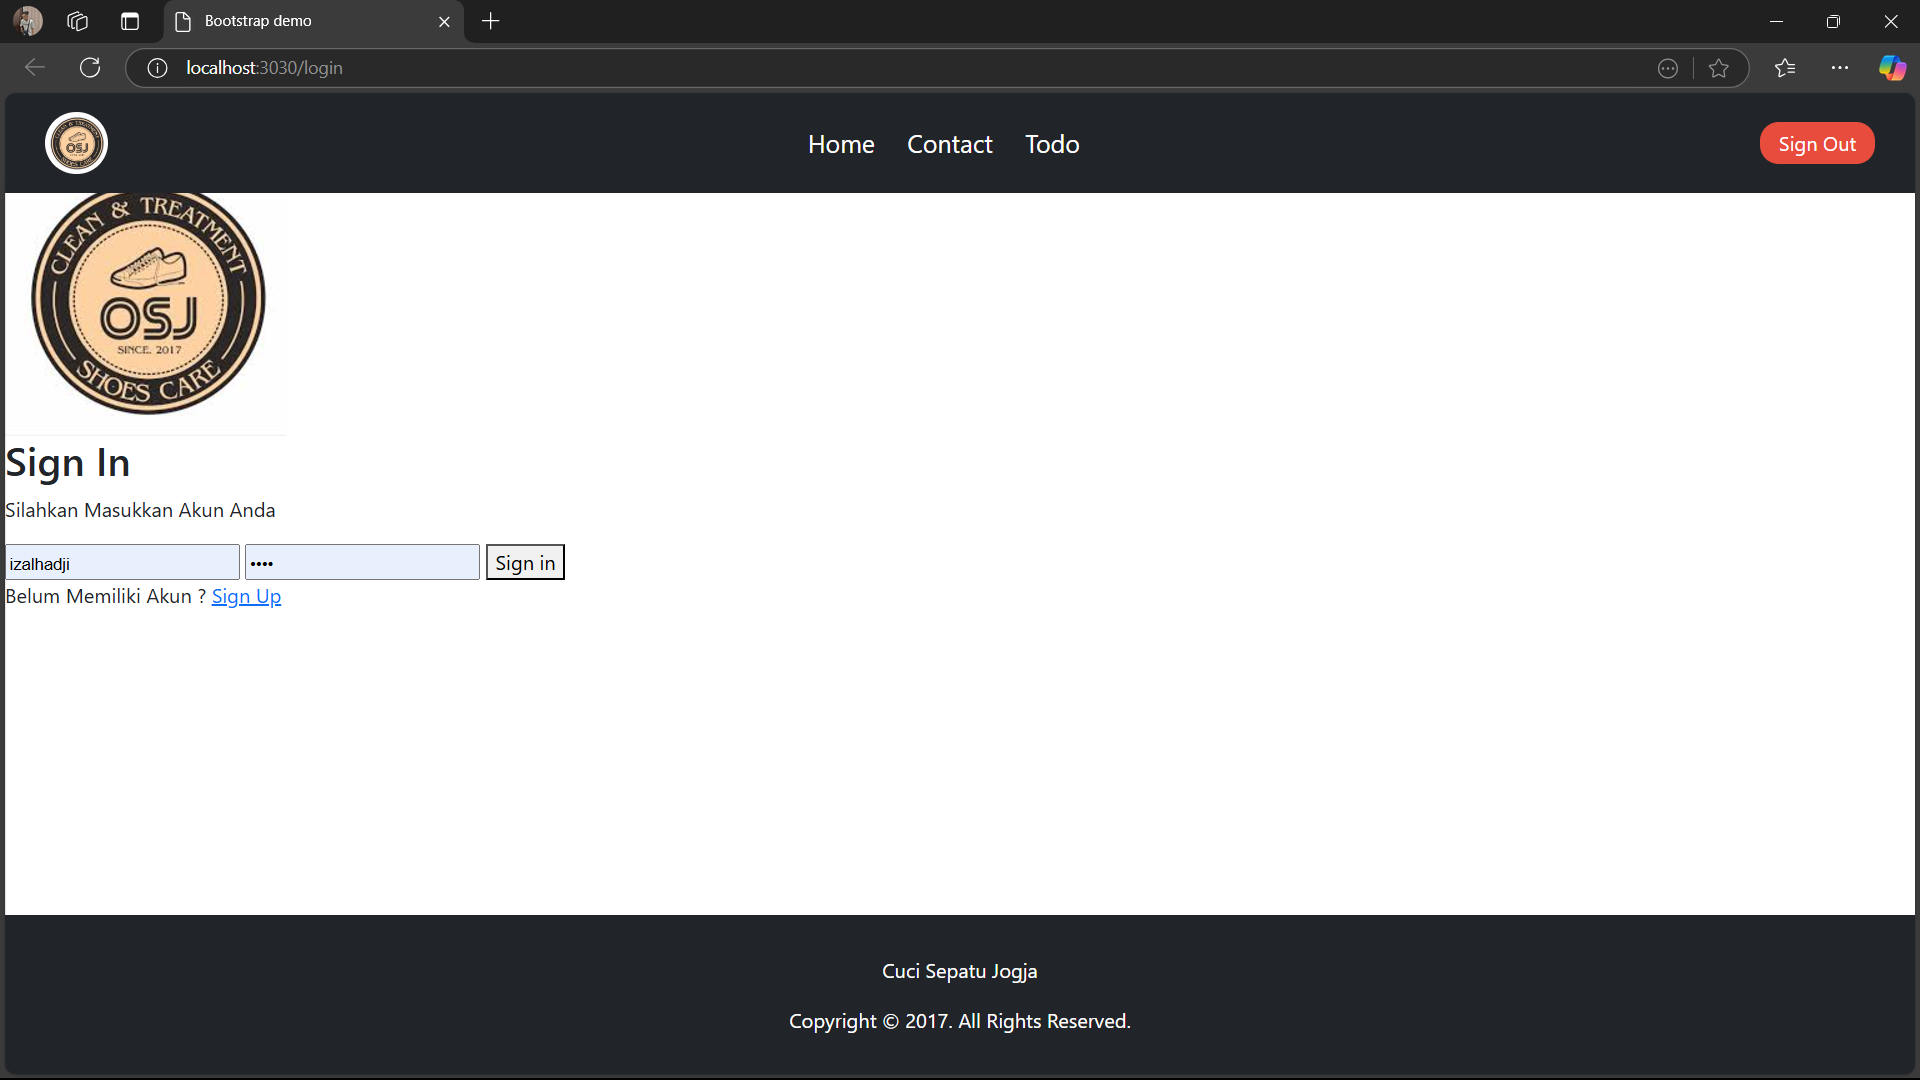
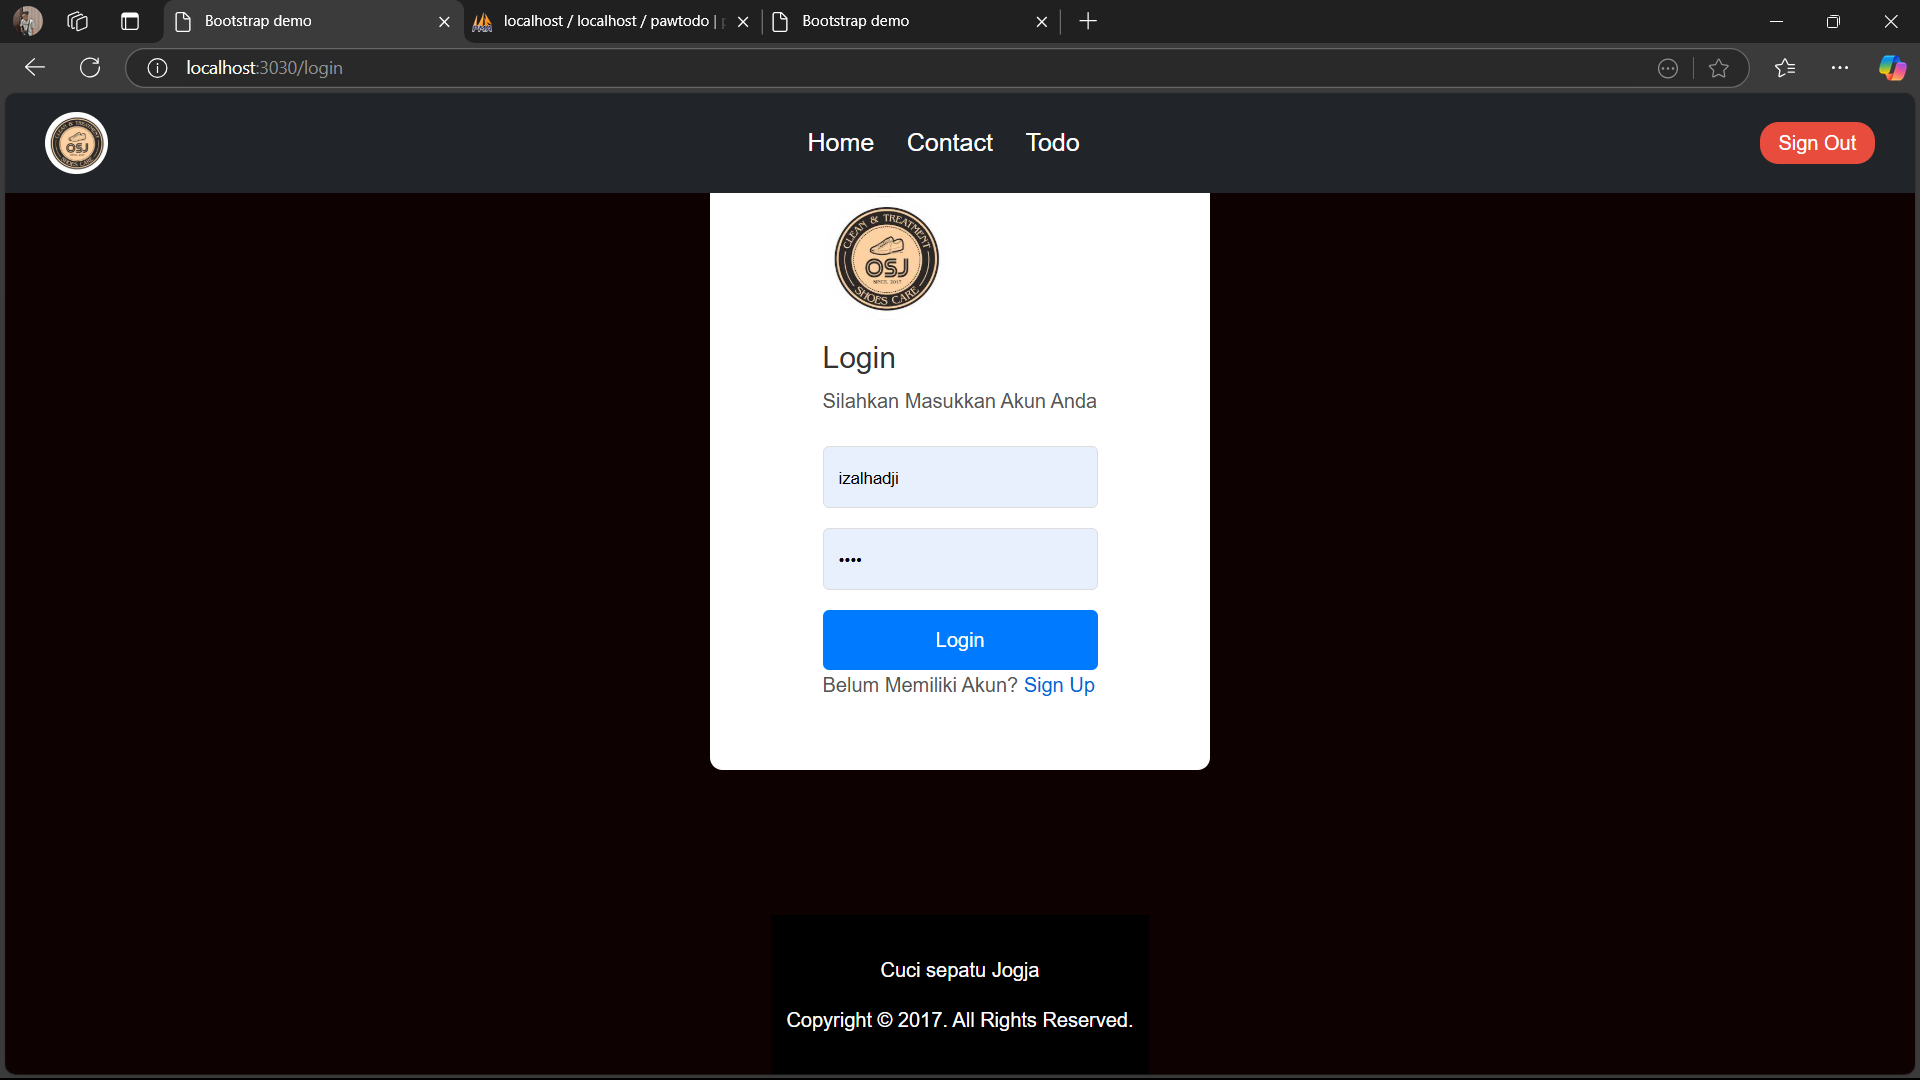
memperbaiki bug

diff --git a/public/css/signup.css b/public/css/signup.css
@@ -1,0 +1,82 @@
+
+      /* Mengatur tinggi dan flexbox untuk body */
+      body {
+        margin: 0;
+        font-family: Arial, sans-serif;
+        height: 100vh;
+        display: flex;
+        align-items: center;
+        justify-content: center;
+        background-color: #0e0101; /* Warna latar belakang */
+      }
+
+      .signup-container {
+        display: flex;
+        align-items: center;
+        justify-content: center;
+        flex-direction: column;
+        background: #ffffff;
+        box-shadow: 0 4px 6px rgba(0, 0, 0, 0.1);
+        padding: 2rem;
+        border-radius: 10px;
+        max-width: 450px;
+        width: 100%;
+      }
+
+      .signup-card .logo {
+        max-width: 100px;
+        margin-bottom: 1rem;
+        border-radius: 50%;
+      }
+
+      .signup-card h2 {
+        margin: 0 0 0.5rem;
+        font-size: 1.5rem;
+        color: #333;
+      }
+
+      .signup-card p {
+        margin: 0 0 1.5rem;
+        font-size: 1rem;
+        color: #555;
+      }
+
+      .signup-form input {
+        display: block;
+        width: 100%;
+        margin-bottom: 1rem;
+        padding: 0.75rem;
+        font-size: 1rem;
+        border: 1px solid #ddd;
+        border-radius: 5px;
+      }
+
+      .signup-form button {
+        width: 100%;
+        padding: 0.75rem;
+        font-size: 1rem;
+        color: #fff;
+        background-color: #28a745;
+        border: none;
+        border-radius: 5px;
+        cursor: pointer;
+      }
+
+      .signup-form button:hover {
+        background-color: #218838;
+      }
+
+      .footer-text {
+        margin-top: 500px;
+        font-size: 0.8rem;
+        color: #050000;
+      }
+      
+      .footer-text a {
+        color: #0366d6;
+        text-decoration: none;
+      }
+      
+      .footer-text a:hover {
+        text-decoration: underline;
+      }

diff --git a/public/css/login.css b/public/css/login.css
@@ -1,0 +1,80 @@
+body {
+    margin: 0;
+    font-family: Arial, sans-serif;
+    height: 100vh;
+    display: flex;
+    align-items: center;
+    justify-content: center;
+    background-color: #120101; /* Warna latar belakang */
+  }
+
+  .login-container {
+    display: flex;
+    align-items: center;
+    justify-content: center;
+    flex-direction: column;
+    background: #ffffff;
+    box-shadow: 0 4px 6px rgba(0, 0, 0, 0.1);
+    padding: 2rem;
+    border-radius: 10px;
+    max-width: 400px;
+    width: 100%;
+  }
+
+  .login-card .logo {
+    max-width: 100px;
+    margin-bottom: 1rem;
+    border-radius: 50%;
+  }
+
+  .login-card h2 {
+    margin: 0 0 0.5rem;
+    font-size: 1.5rem;
+    color: #333;
+  }
+
+  .login-card p {
+    margin: 0 0 1.5rem;
+    font-size: 1rem;
+    color: #555;
+  }
+
+  .login-form input {
+    display: block;
+    width: 100%;
+    margin-bottom: 1rem;
+    padding: 0.75rem;
+    font-size: 1rem;
+    border: 1px solid #ddd;
+    border-radius: 5px;
+  }
+
+  .login-form button {
+    width: 100%;
+    padding: 0.75rem;
+    font-size: 1rem;
+    color: #fff;
+    background-color: #007bff;
+    border: none;
+    border-radius: 5px;
+    cursor: pointer;
+  }
+
+  .login-form button:hover {
+    background-color: #0056b3;
+  }
+
+  .footer-text {
+    margin-top: 500px;
+    font-size: 0.8rem;
+    color: #050000;
+  }
+  
+  .footer-text a {
+    color: #0366d6;
+    text-decoration: none;
+  }
+  
+  .footer-text a:hover {
+    text-decoration: underline;
+  }

diff --git a/public/css/style.css b/public/css/style.css
@@ -6,7 +6,7 @@
   align-items: center;
   min-height: 100vh;
   font-family: "Jost", sans-serif;
-  background-image: url('https://png.pngtree.com/thumb_back/fh260/background/20210909/pngtree-wedding-noon-couple-outdoor-wedding-photography-pictures-with-pictures-image_835670.jpg'); 
+  
 }
 .login-container {
   width: 100%;
@@ -19,8 +19,8 @@
 }
 
 .logo {
-  width: 50px;
-  height: 50px;
+  width: 100px;
+  height: 100px;
   margin-bottom: 20px;
   border-radius: 100%;
   -webkit-border-radius: 100%;
@@ -80,9 +80,9 @@ p {
 }
 
 .footer-text {
-  margin-top: 20px;
+  margin-top: 500px;
   font-size: 0.8rem;
-  color: #333;
+  color: #050000;
 }
 
 .footer-text a {

diff --git a/tempCodeRunnerFile.js b/tempCodeRunnerFile.js
@@ -1,5 +1,1 @@
-app.get('/contact',isAuthenticated, (req, res) => {
-    res.render('contact',{
-        layout: 'layouts/main-layout',
-    });
-});
+"layouts/main-layout",
